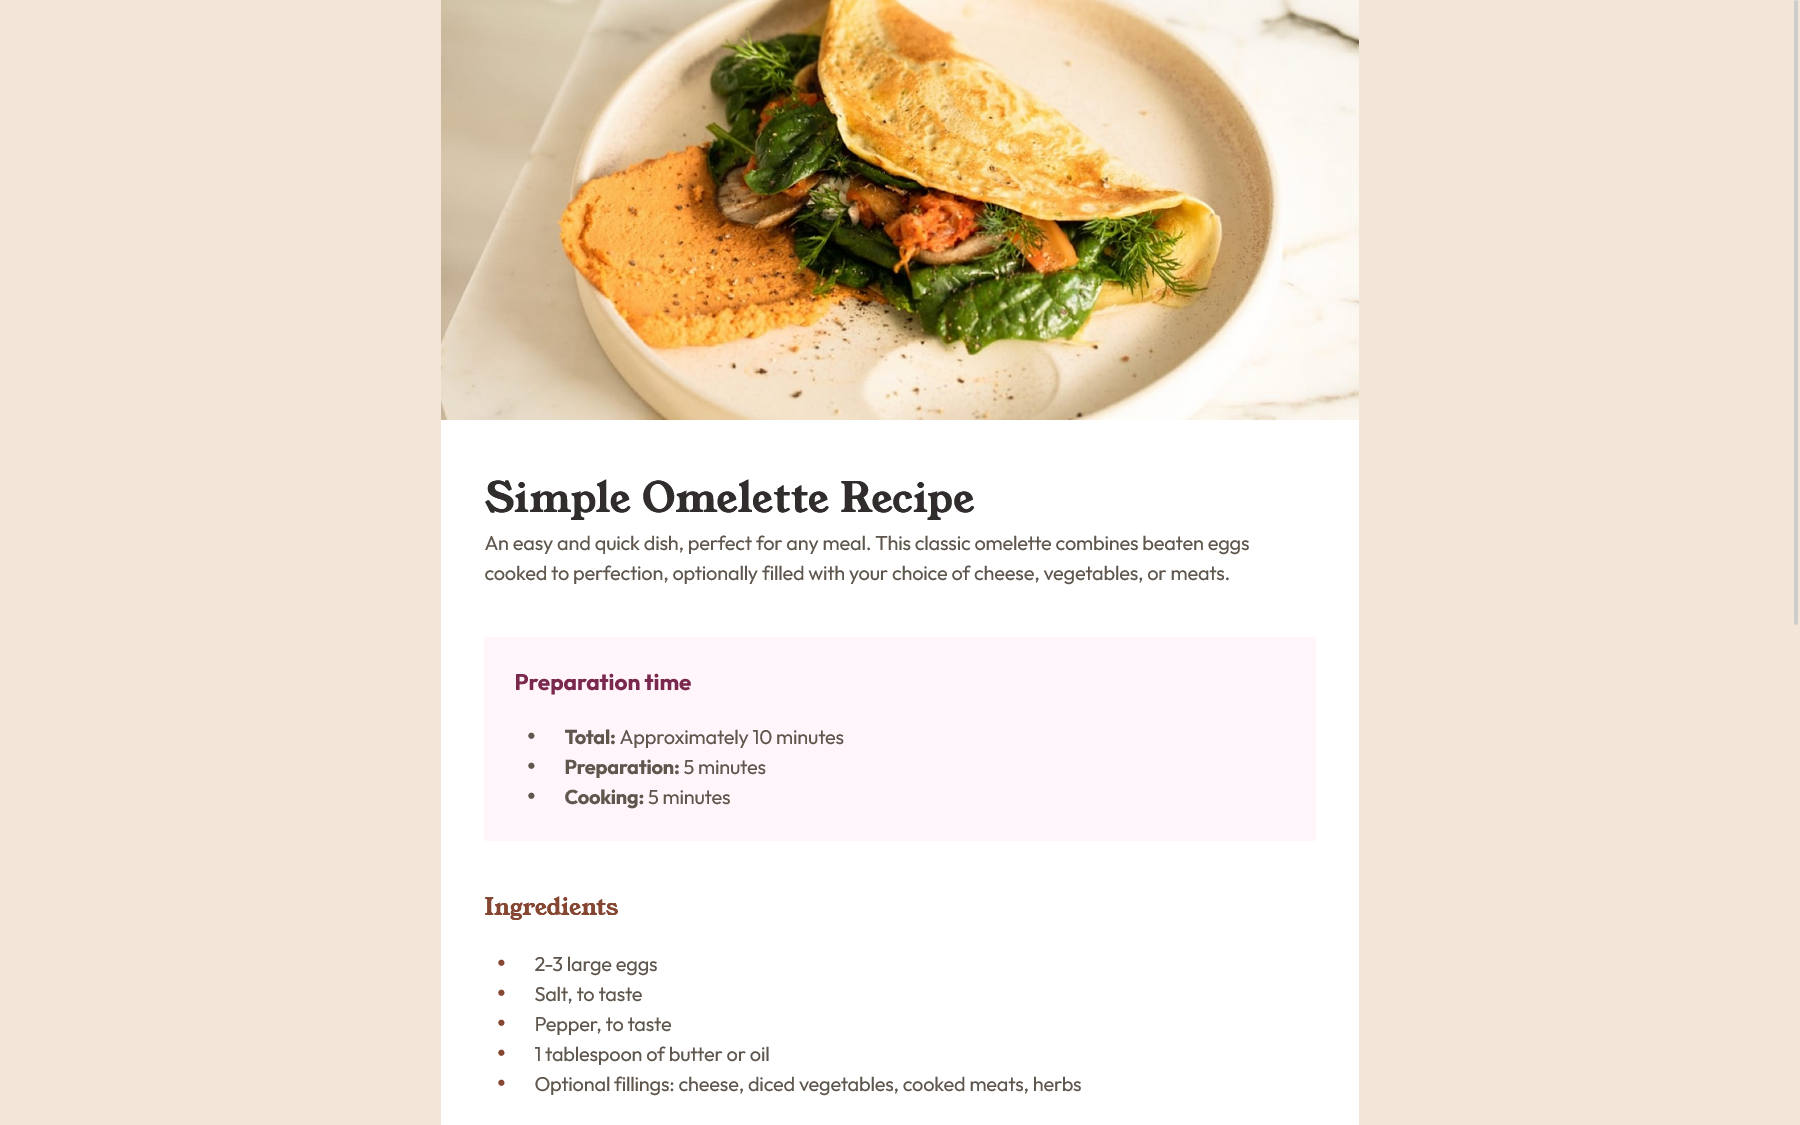
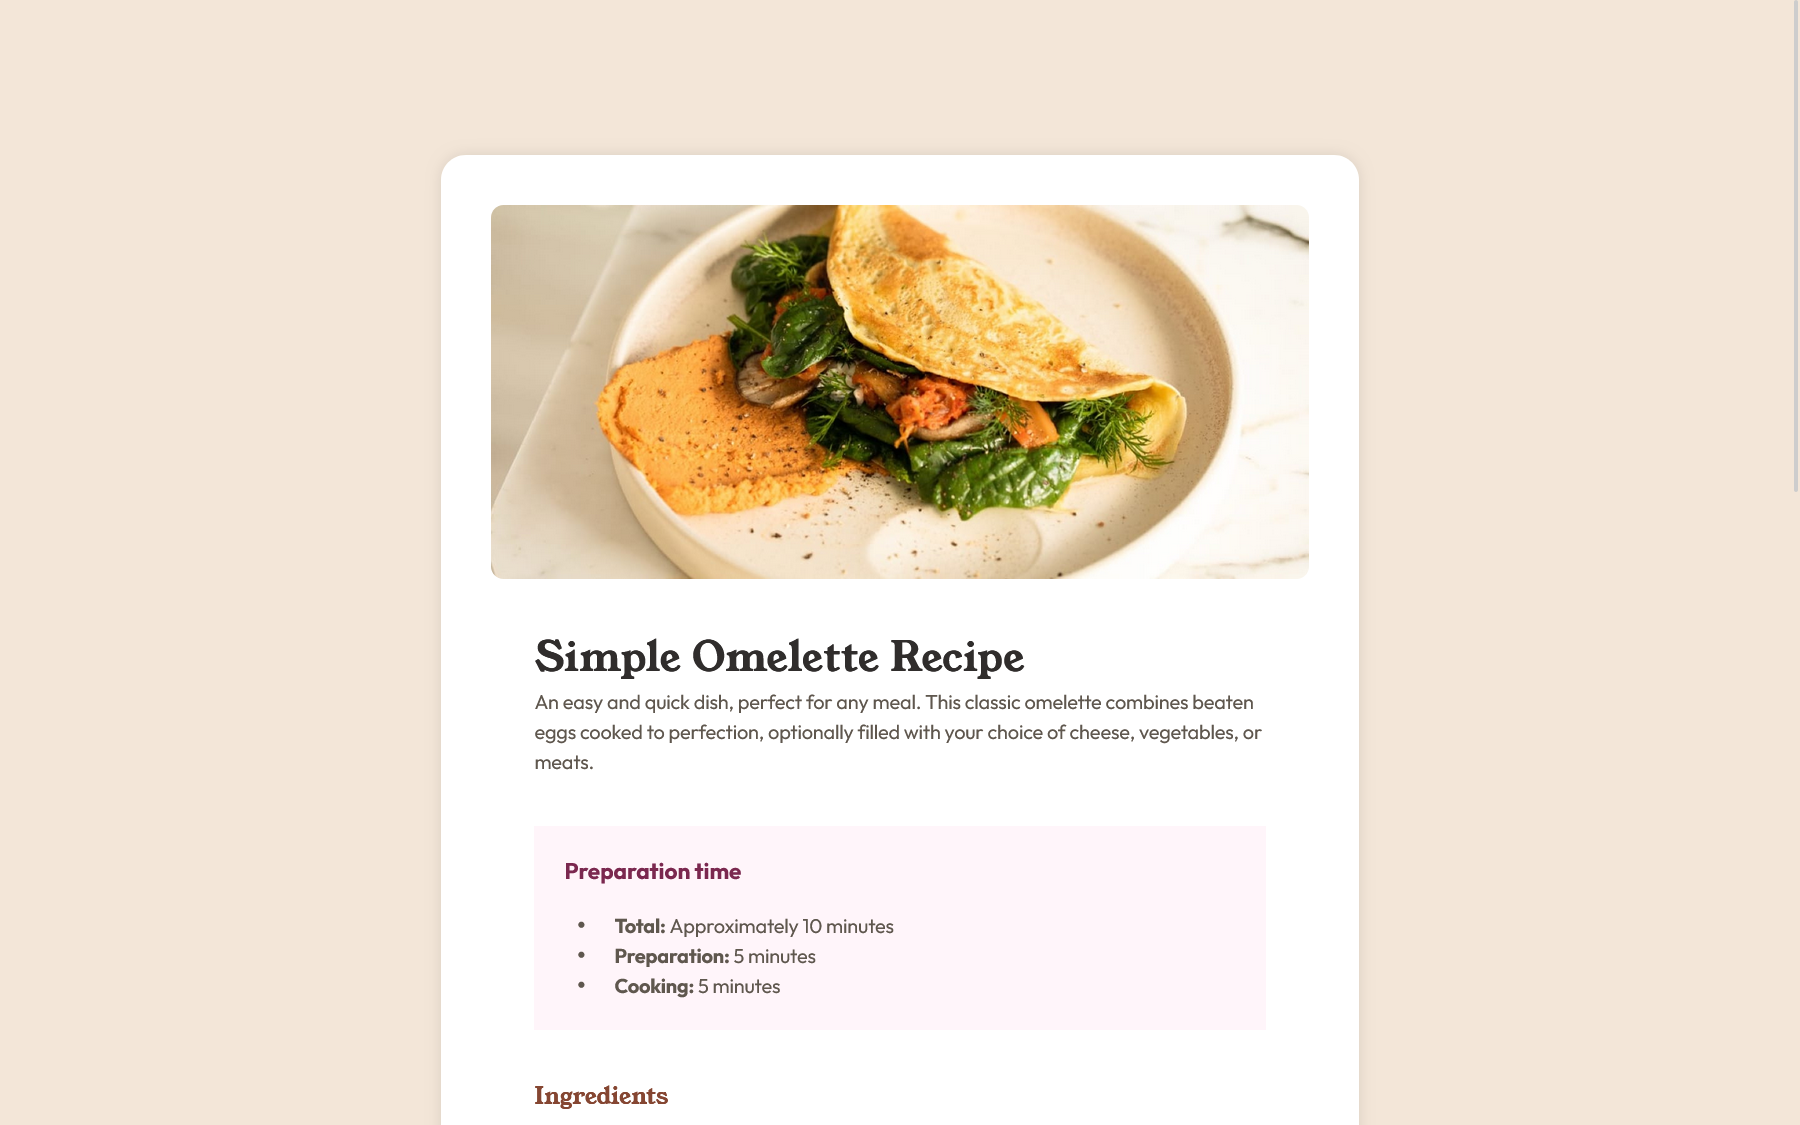
Update layout

diff --git a/dist/css/main.css b/dist/css/main.css
@@ -1,1 +1,1 @@
-@font-face{font-family:"Young Serif";src:url(../fonts/YoungSerif-Regular.ttf) format("TrueType");font-weight:400}@font-face{font-family:"Outfit";src:url(../fonts/Outfit-VariableFont_wght.ttf) format("TrueType")}html{box-sizing:border-box}*,*::before,*::after{box-sizing:inherit}body,h1,h2,h3,h4,h5,h6,ul,ol,li,p,pre,blockquote,figure,hr{margin:0;padding:0}ul,ol{list-style:none}input,textarea,select,button{color:inherit;font:inherit;letter-spacing:inherit}input[type=text],textarea{width:100%}input,textarea,button{border:1px solid gray}button{padding:.75em 1em;border-radius:0;line-height:1;background-color:rgba(0,0,0,0)}button *{pointer-events:none}img,svg,iframe,video,object,embed{display:block;max-width:100%}table{table-layout:fixed;width:100%}[hidden]{display:none !important}noscript{display:block;margin-bottom:1em;margin-top:1em}[tabindex="-1"]{outline:none !important}*,*::before,*::after{box-sizing:border-box}:root{font-size:16px}body{max-width:100vw;margin:0;padding:0;font-family:"Outfit",sans-serif;background-color:#f3e6d8;font-size:.75rem}.container{position:relative;display:flex;flex-direction:column;width:100%;min-height:100vh;margin-inline:auto}.container>*{max-width:100%}.container>main{margin-block:0}.container>:first-child:not(main){margin-block-start:0}.container>:last-child:not(main){margin-block-end:0}.recipe{display:flex;flex-direction:column;justify-content:space-between;width:100%;max-width:735px;min-width:320px;margin-inline:auto;background-color:#fff;color:#5f574e}.recipe__img{display:block;width:100%;height:auto;object-fit:cover}.recipe__title{font-size:32px;font-weight:bold;color:#302d2c;font-family:"Young Serif",serif}.recipe__subtext{font-size:16px;font-weight:400;color:#5f574e;letter-spacing:-0.01rem;line-height:1.5}.recipe__content{padding:40px 35px}.recipe__preparation{background-color:#fff5fa;padding:1.5rem;margin-block:40px}.recipe__preparation-title{font-size:18px;font-weight:bold;color:#7b284f;letter-spacing:4%;margin-block-end:20px}.recipe__preparation-list li{position:relative;font-size:16px;font-weight:400;color:#5f574e;letter-spacing:-0.01rem;line-height:1.5;padding-inline:40px}.recipe__preparation-list li::before{content:"•";position:absolute;top:50%;left:10px;transform:translateY(-50%);font-size:20px;font-weight:bold}.recipe__ingredients,.recipe__instructions,.recipe__nutritions{margin-block:40px}.recipe__ingredients-title,.recipe__instructions-title,.recipe__nutritions-title{font-size:18px;font-weight:bold;color:#854632;font-family:"Young Serif",serif;letter-spacing:4%;margin-block-end:20px}.recipe__ingredients-subtext,.recipe__instructions-subtext,.recipe__nutritions-subtext{font-size:16px;font-weight:400;color:#5f574e;letter-spacing:-0.05rem;line-height:1.5}.recipe__ingredients-table,.recipe__instructions-table,.recipe__nutritions-table{width:100%;border-collapse:collapse;border-spacing:0;margin-block:20px}.recipe__ingredients-table th,.recipe__ingredients-table td,.recipe__instructions-table th,.recipe__instructions-table td,.recipe__nutritions-table th,.recipe__nutritions-table td{padding:10px;border-bottom:1px solid #e4ded8;text-align:left}.recipe__ingredients-table th,.recipe__instructions-table th,.recipe__nutritions-table th{font-size:16px;font-weight:400;color:#5f574e;letter-spacing:4%;padding-inline-start:50px}.recipe__ingredients-table td,.recipe__instructions-table td,.recipe__nutritions-table td{font-size:16px;font-weight:400;color:#854632;letter-spacing:-0.01rem;font-weight:bold}.recipe__ingredients-list,.recipe__instructions-list,.recipe__nutritions-list{counter-reset:li}.recipe__ingredients-list li,.recipe__instructions-list li,.recipe__nutritions-list li{position:relative;font-size:16px;font-weight:400;color:#5f574e;letter-spacing:-0.01rem;line-height:1.5;padding-inline:40px}.recipe__ingredients-list li::before,.recipe__instructions-list li::before,.recipe__nutritions-list li::before{content:"•";position:absolute;top:50%;left:10px;transform:translateY(-50%);font-size:20px;font-weight:bold;color:#854632}.recipe__instructions li::before{counter-increment:li;content:counter(li) ".";top:0;transform:unset;font-size:16px}
+@font-face{font-family:"Young Serif";src:url(../fonts/YoungSerif-Regular.ttf) format("TrueType");font-weight:400}@font-face{font-family:"Outfit";src:url(../fonts/Outfit-VariableFont_wght.ttf) format("TrueType")}html{box-sizing:border-box}*,*::before,*::after{box-sizing:inherit}body,h1,h2,h3,h4,h5,h6,ul,ol,li,p,pre,blockquote,figure,hr{margin:0;padding:0}ul,ol{list-style:none}input,textarea,select,button{color:inherit;font:inherit;letter-spacing:inherit}input[type=text],textarea{width:100%}input,textarea,button{border:1px solid gray}button{padding:.75em 1em;border-radius:0;line-height:1;background-color:rgba(0,0,0,0)}button *{pointer-events:none}img,svg,iframe,video,object,embed{display:block;max-width:100%}table{table-layout:fixed;width:100%}[hidden]{display:none !important}noscript{display:block;margin-bottom:1em;margin-top:1em}[tabindex="-1"]{outline:none !important}*,*::before,*::after{box-sizing:border-box}:root{font-size:16px}body{max-width:100vw;margin:0;padding:0;font-family:"Outfit",sans-serif;background-color:#f3e6d8;font-size:.75rem}.container{position:relative;display:flex;flex-direction:column;width:100%;min-height:100vh;margin-inline:auto}@media screen and (min-width: 735px){.container{padding:clamp(2.5rem,-2.9734rem + 11.9149vi,7.75rem) 40px}}.container>*{max-width:100%}.container>main{margin-block:auto}.container>:first-child:not(main){margin-block-start:0}.container>:last-child:not(main){margin-block-end:0}.recipe{display:flex;flex-direction:column;justify-content:space-between;width:100%;max-width:735px;min-width:320px;margin-inline:auto;background-color:#fff;color:#5f574e}@media screen and (min-width: 735px){.recipe{border-radius:20px;box-shadow:0 0 10px rgba(0,0,0,.1);padding:40px}}.recipe__img{display:block;width:100%;height:auto;object-fit:cover}@media screen and (min-width: 735px){.recipe__img{border-radius:10px}}.recipe__title{font-size:32px;font-weight:bold;color:#302d2c;font-family:"Young Serif",serif}.recipe__subtext{font-size:16px;font-weight:400;color:#5f574e;letter-spacing:-0.01rem;line-height:1.5}.recipe__content{padding:40px 35px}.recipe__preparation{background-color:#fff5fa;padding:1.5rem;margin-block:40px}.recipe__preparation-title{font-size:18px;font-weight:bold;color:#7b284f;letter-spacing:4%;margin-block-end:20px}.recipe__preparation-list li{position:relative;font-size:16px;font-weight:400;color:#5f574e;letter-spacing:-0.01rem;line-height:1.5;padding-inline:40px}.recipe__preparation-list li::before{content:"•";position:absolute;top:50%;left:10px;transform:translateY(-50%);font-size:20px;font-weight:bold}.recipe__ingredients,.recipe__instructions,.recipe__nutritions{margin-block:40px}.recipe__ingredients-title,.recipe__instructions-title,.recipe__nutritions-title{font-size:18px;font-weight:bold;color:#854632;font-family:"Young Serif",serif;letter-spacing:4%;margin-block-end:20px}.recipe__ingredients-subtext,.recipe__instructions-subtext,.recipe__nutritions-subtext{font-size:16px;font-weight:400;color:#5f574e;letter-spacing:-0.05rem;line-height:1.5}.recipe__ingredients-table,.recipe__instructions-table,.recipe__nutritions-table{width:100%;border-collapse:collapse;border-spacing:0;margin-block:20px}.recipe__ingredients-table th,.recipe__ingredients-table td,.recipe__instructions-table th,.recipe__instructions-table td,.recipe__nutritions-table th,.recipe__nutritions-table td{padding:10px;border-bottom:1px solid #e4ded8;text-align:left}.recipe__ingredients-table th,.recipe__instructions-table th,.recipe__nutritions-table th{font-size:16px;font-weight:400;color:#5f574e;letter-spacing:4%;padding-inline-start:50px}.recipe__ingredients-table td,.recipe__instructions-table td,.recipe__nutritions-table td{font-size:16px;font-weight:400;color:#854632;letter-spacing:-0.01rem;font-weight:bold}.recipe__ingredients-list,.recipe__instructions-list,.recipe__nutritions-list{counter-reset:li}.recipe__ingredients-list li,.recipe__instructions-list li,.recipe__nutritions-list li{position:relative;font-size:16px;font-weight:400;color:#5f574e;letter-spacing:-0.01rem;line-height:1.5;padding-inline:40px}.recipe__ingredients-list li::before,.recipe__instructions-list li::before,.recipe__nutritions-list li::before{content:"•";position:absolute;top:50%;left:10px;transform:translateY(-50%);font-size:20px;font-weight:bold;color:#854632}.recipe__instructions li::before{counter-increment:li;content:counter(li) ".";top:0;transform:unset;font-size:16px}

diff --git a/src/scss/_global.scss b/src/scss/_global.scss
@@ -1,8 +1,8 @@
 /* stylelint-disable at-rule-no-unknown */
 /* stylelint-disable csstree/validator */
-@use './_fonts.scss';
-@use './_colors.scss';
-@use '_reset.scss';
+@use "./_fonts.scss";
+@use "./_colors.scss";
+@use "_reset.scss";
 
 /* Global styles
 ------------------------------------ */
@@ -33,13 +33,16 @@ body {
   width: 100%;
   min-height: 100vh;
   margin-inline: auto;
+  @media screen and (min-width: 735px) {
+    padding: clamp(2.5rem, -2.9734rem + 11.9149vi, 7.75rem) 40px;
+  }
 
   & > * {
     max-width: 100%;
   }
 
   & > main {
-    margin-block: 0;
+    margin-block: auto;
   }
 
   & > :first-child:not(main) {

diff --git a/src/scss/_recipe-page.scss b/src/scss/_recipe-page.scss
@@ -14,11 +14,21 @@
   background-color: colors.$light;
   color: colors.$wengeBrown;
 
+  @media screen and (min-width: 735px) {
+    border-radius: 20px;
+    box-shadow: 0 0 10px rgba(0, 0, 0, 0.1);
+    padding: 40px;
+  }
+
   &__img {
     display: block;
     width: 100%;
     height: auto;
     object-fit: cover;
+
+    @media screen and (min-width: 735px) {
+      border-radius: 10px;
+    }
   }
 
   &__title {
